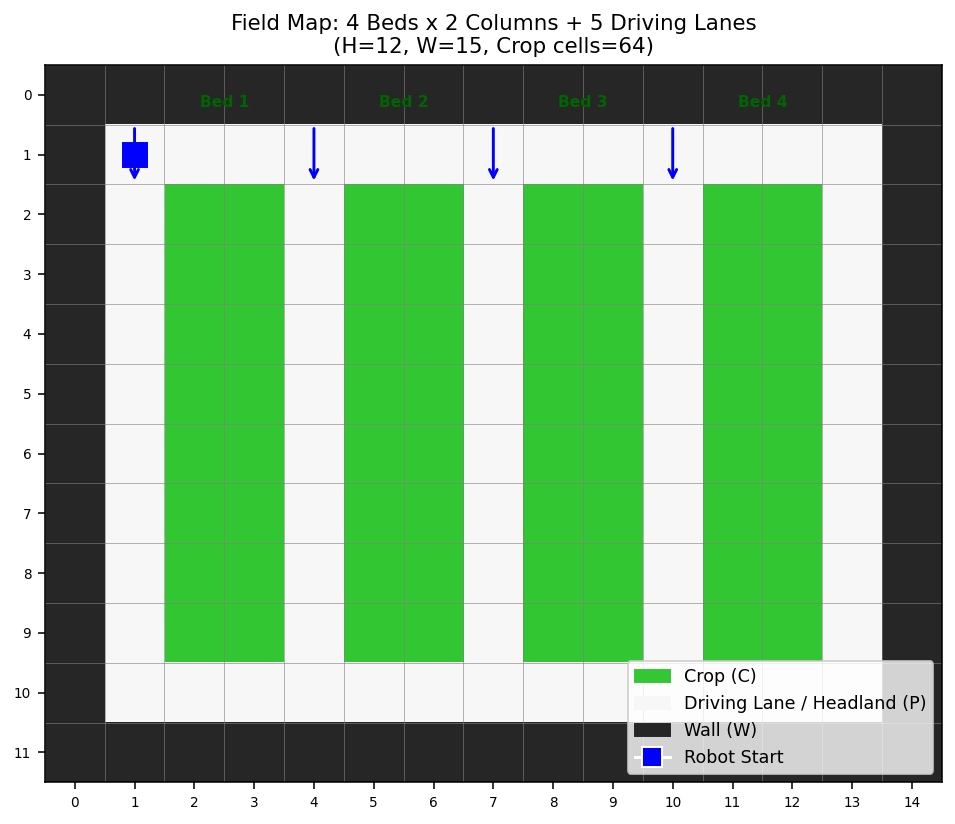
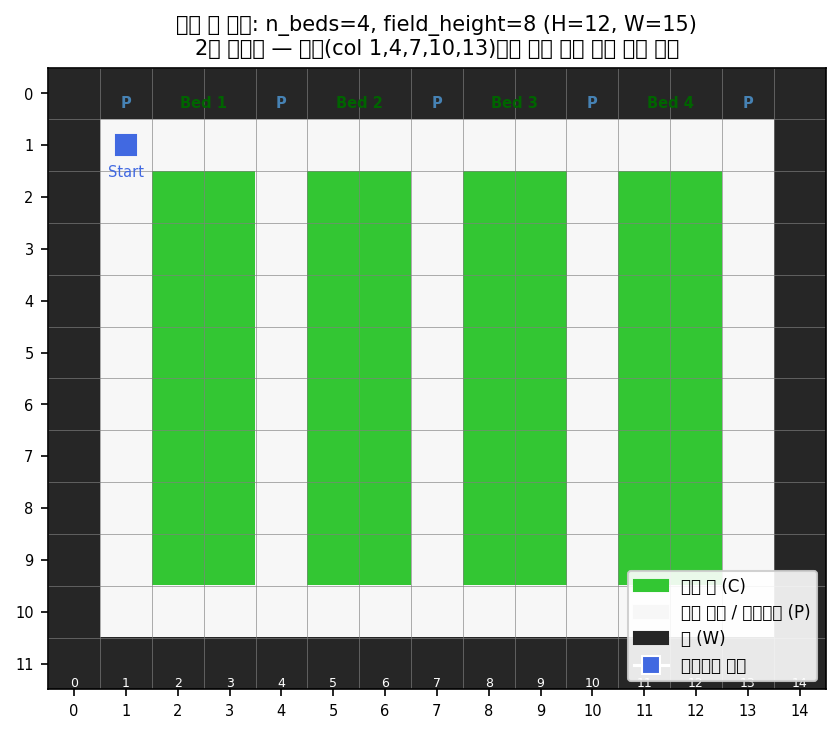
최종 맵 구조 그림 재생성 및 보고서 반영

diff --git a/report.md b/report.md
@@ -71,6 +71,8 @@ P=주행 레인(통로), C=작물 셀, W=벽
 레인 열(col): 1, 4, 7, 10, 13  (5개)
 ```
 
+![맵 구조](map_structure.png)
+
 **2열 재배단의 의미**: 레인에서 바라봤을 때 인접한 **안쪽 열만** 스캔 가능하며, 바깥쪽 열은 반대편 레인에서만 접근 가능. 전체 커버리지를 위해 5개 레인 모두 방문 필요.
 
 | 항목 | 값 |